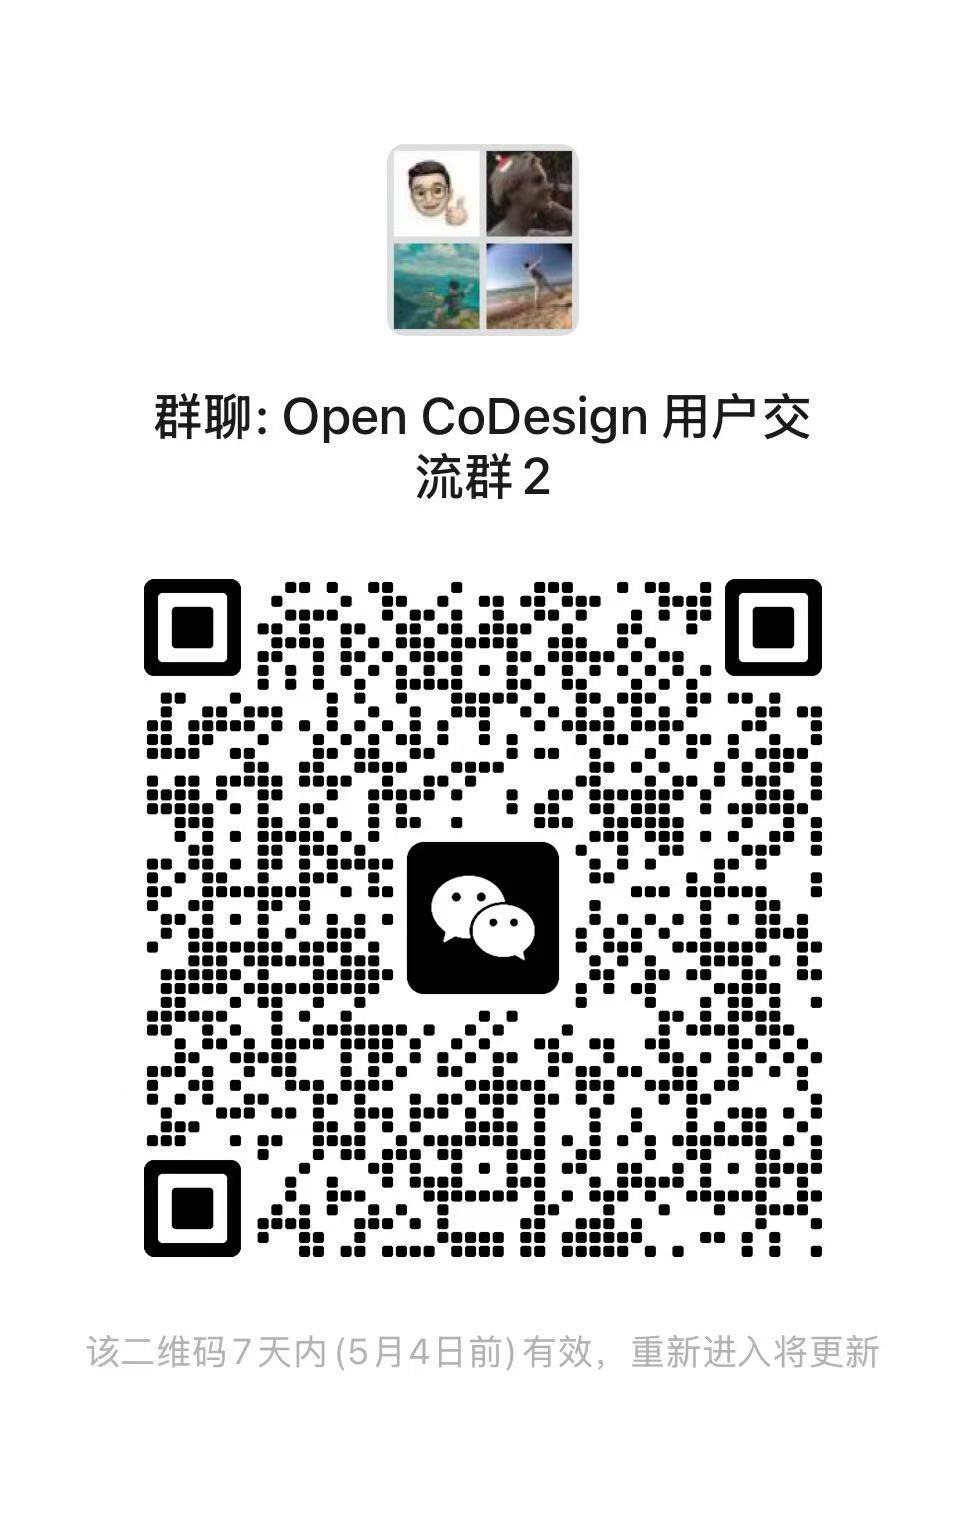
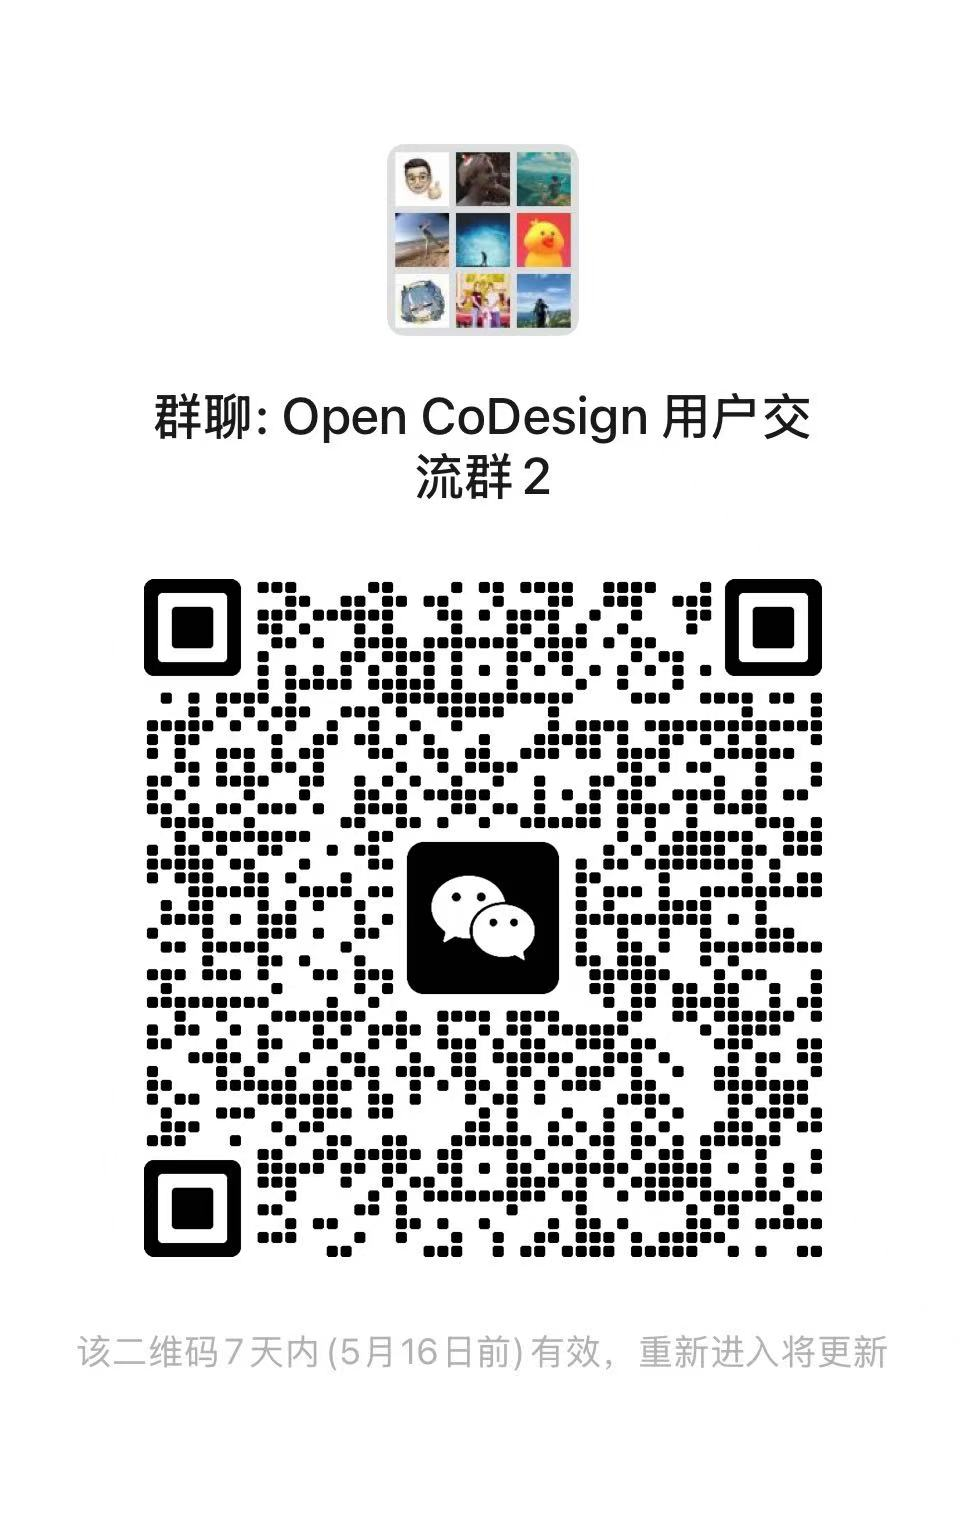
docs: refresh WeChat group QR code

diff --git a/website/zh/index.md b/website/zh/index.md
@@ -170,7 +170,7 @@ import { withBase } from 'vitepress'
 <div class="codesign-community">
   <div class="community-card">
     <h3>用户交流群（微信）</h3>
-    <p class="community-hint">扫码加入中文讨论组。二维码每 7 天刷新，当前截至 <strong>5 月 4 日</strong> 有效。过期请到 <a href="https://github.com/OpenCoworkAI/open-codesign/issues">GitHub Issues</a> 留言提醒我们更新。</p>
+    <p class="community-hint">扫码加入中文讨论组。二维码每 7 天刷新，当前截至 <strong>5 月 16 日</strong> 有效。过期请到 <a href="https://github.com/OpenCoworkAI/open-codesign/issues">GitHub Issues</a> 留言提醒我们更新。</p>
     <img
       :src="withBase('/community/wechat-group.jpg')"
       alt="Open CoDesign 用户交流群微信二维码"

diff --git a/README.md b/README.md
@@ -335,7 +335,7 @@ For Chinese-speaking users, we also keep a WeChat group for product updates, usa
   />
 </p>
 
-> ⚠ The WeChat QR code rotates every 7 days and is currently valid until **May 4**.
+> ⚠ The WeChat QR code rotates every 7 days and is currently valid until **May 16**.
 > If the code has expired, please leave a message in [GitHub Issues](https://github.com/OpenCoworkAI/open-codesign/issues) and we will refresh the image in-repo.
 
 See also the Chinese README: [README.zh-CN.md#社群](./README.zh-CN.md#%E7%A4%BE%E7%BE%A4).
